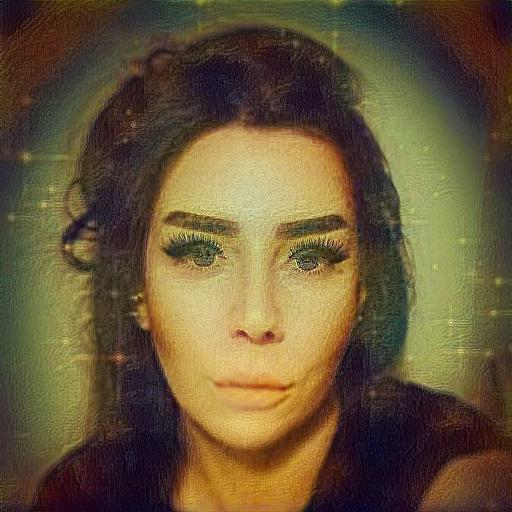
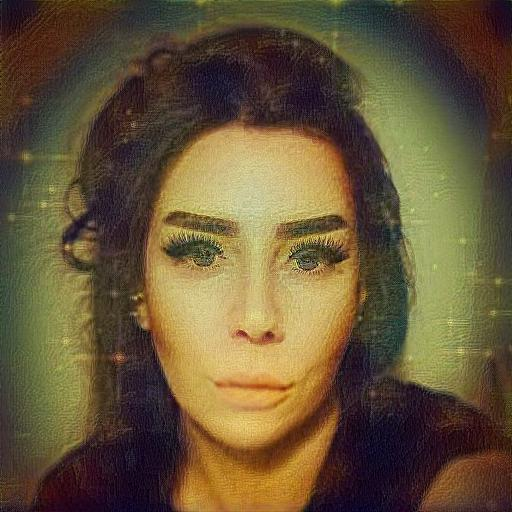
size reduced to 8

Changed region(s): [[0.3438, 0.4062, 0.4688, 0.5312], [0.5625, 0.4375, 0.6562, 0.5312], [0.2188, 0.6875, 0.25, 0.7188]]

diff --git a/mains/utils.py b/mains/utils.py
@@ -9,11 +9,12 @@ import torchvision.transforms as transforms
 import copy
 
 
-device = torch.device("cuda" if torch.cuda.is_available() else "cpu")
+# device = torch.device("cuda" if torch.cuda.is_available() else "cpu")
+device = torch.device("cpu")
 unloader = transforms.ToPILImage()  # reconvert into PIL image
 content_layers_default = ['conv_4']
 style_layers_default = ['conv_1', 'conv_2', 'conv_3', 'conv_4', 'conv_5']
-imsize = 32 if torch.cuda.is_available() else 32  # use small size if no gpu
+imsize = 8 if torch.cuda.is_available() else 8  # use small size if no gpu
 loader = transforms.Compose([
     transforms.Resize(imsize),  # scale imported image
     transforms.ToTensor()])  # transform it into a torch tensor
